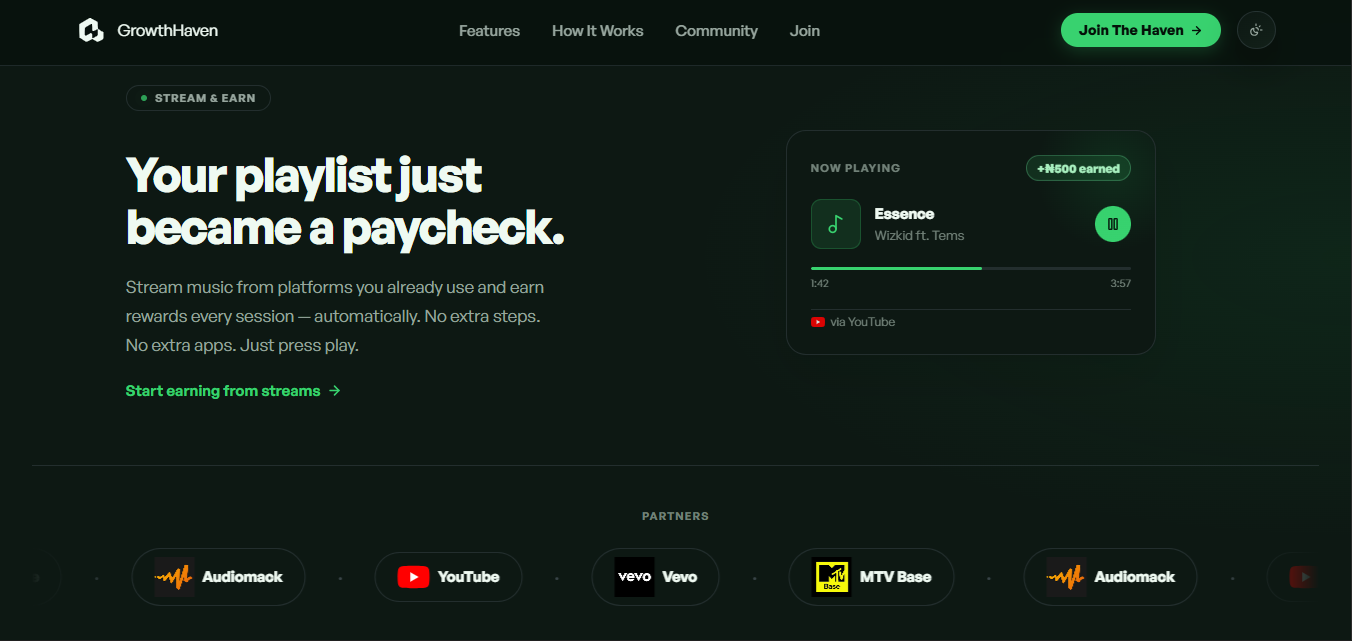
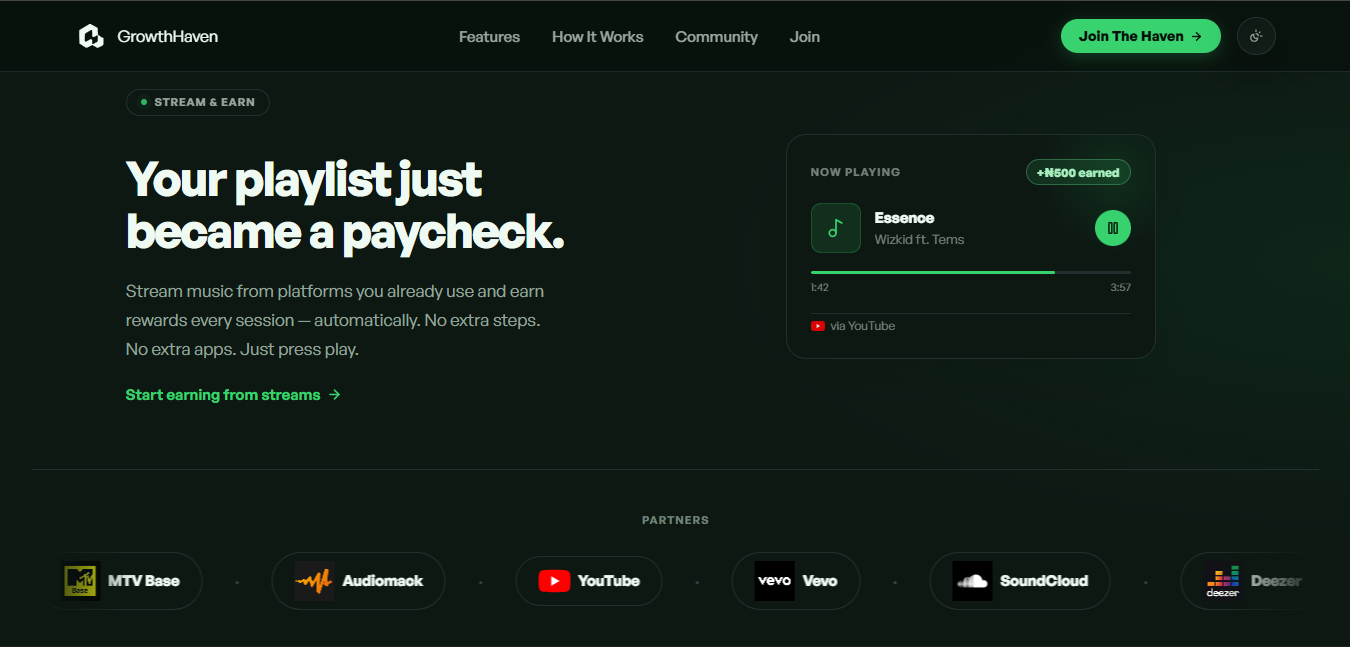
landing page layout adjustments

diff --git a/index.html b/index.html
@@ -546,10 +546,24 @@
           </div>
 
           <span class="partner-strip__sep" aria-hidden="true">·</span>
-
+          
           <div class="partner-logo">
             <img src="/assets/partners/vevo-logo.png" alt="" class="logo-img">
             <span class="partner-logo__name">Vevo</span>
+          </div>
+          
+          <span class="partner-strip__sep" aria-hidden="true">·</span>
+
+          <div class="partner-logo">
+            <img src="/assets/partners/soundcloud-logo.png" alt="" class="logo-img">
+            <span class="partner-logo__name">SoundCloud</span>
+          </div>
+
+          <span class="partner-strip__sep" aria-hidden="true">·</span>
+
+          <div class="partner-logo">
+            <img src="/assets/partners/deezer-logo.jpg" alt="" class="logo-img">
+            <span class="partner-logo__name">Deezer</span>
           </div>
 
           <span class="partner-strip__sep" aria-hidden="true">·</span>
@@ -585,6 +599,20 @@
           </div>
 
           <span class="partner-strip__sep" aria-hidden="true">·</span>
+          
+          <div class="partner-logo">
+            <img src="/assets/partners/soundcloud-logo.png" alt="" class="logo-img">
+            <span class="partner-logo__name">SoundCloud</span>
+          </div>
+
+          <span class="partner-strip__sep" aria-hidden="true">·</span>
+
+          <div class="partner-logo">
+            <img src="/assets/partners/deezer-logo.jpg" alt="" class="logo-img">
+            <span class="partner-logo__name">Deezer</span>
+          </div>
+
+          <span class="partner-strip__sep" aria-hidden="true">·</span>
 
           <div class="partner-logo">
             <img src="/assets/partners/mtvbase-logo.png" alt="" class="logo-img">
@@ -614,6 +642,20 @@
           <div class="partner-logo">
             <img src="/assets/partners/vevo-logo.png" alt="" class="logo-img">
             <span class="partner-logo__name">Vevo</span>
+          </div>
+
+          <span class="partner-strip__sep" aria-hidden="true">·</span>
+          
+          <div class="partner-logo">
+            <img src="/assets/partners/soundcloud-logo.png" alt="" class="logo-img">
+            <span class="partner-logo__name">SoundCloud</span>
+          </div>
+
+          <span class="partner-strip__sep" aria-hidden="true">·</span>
+
+          <div class="partner-logo">
+            <img src="/assets/partners/deezer-logo.jpg" alt="" class="logo-img">
+            <span class="partner-logo__name">Deezer</span>
           </div>
 
           <span class="partner-strip__sep" aria-hidden="true">·</span>
@@ -797,6 +839,7 @@
        PRE-FOOTER CTA STRIP
   ===================== -->
   <section class="prefooter" aria-label="Final call to action">
+    <div class="prefooter-img"></div>
     <div class="prefooter__inner">
       <h2 class="prefooter__heading">Your rewards deserve a better source.</h2>
       <p class="prefooter__sub">Join the Haven today — free, fast, and built for growth.</p>
@@ -814,7 +857,7 @@
         </a>
       </div>
     </div>
-    <div class="deco-blob deco-blob--prefooter" aria-hidden="true"></div>
+    <!-- <div class="deco-blob deco-blob--prefooter" aria-hidden="true"></div> -->
   </section>
 
 

diff --git a/src/assets/styles/landing.css b/src/assets/styles/landing.css
@@ -1814,6 +1814,16 @@ a.cta-btn.hero__tg-link {
   overflow: hidden;
   text-align: center;
 }
+.prefooter-img{
+  position: absolute;
+  inset: 0; 
+  background-image: url('/assets/community/photo-1.jpg');
+  background-size: cover; 
+  background-position: center; 
+  background-repeat: no-repeat;
+  opacity: .5;
+  filter: brightness(0.7) blur(2px);
+}
 
 .prefooter__inner {
   position: relative;